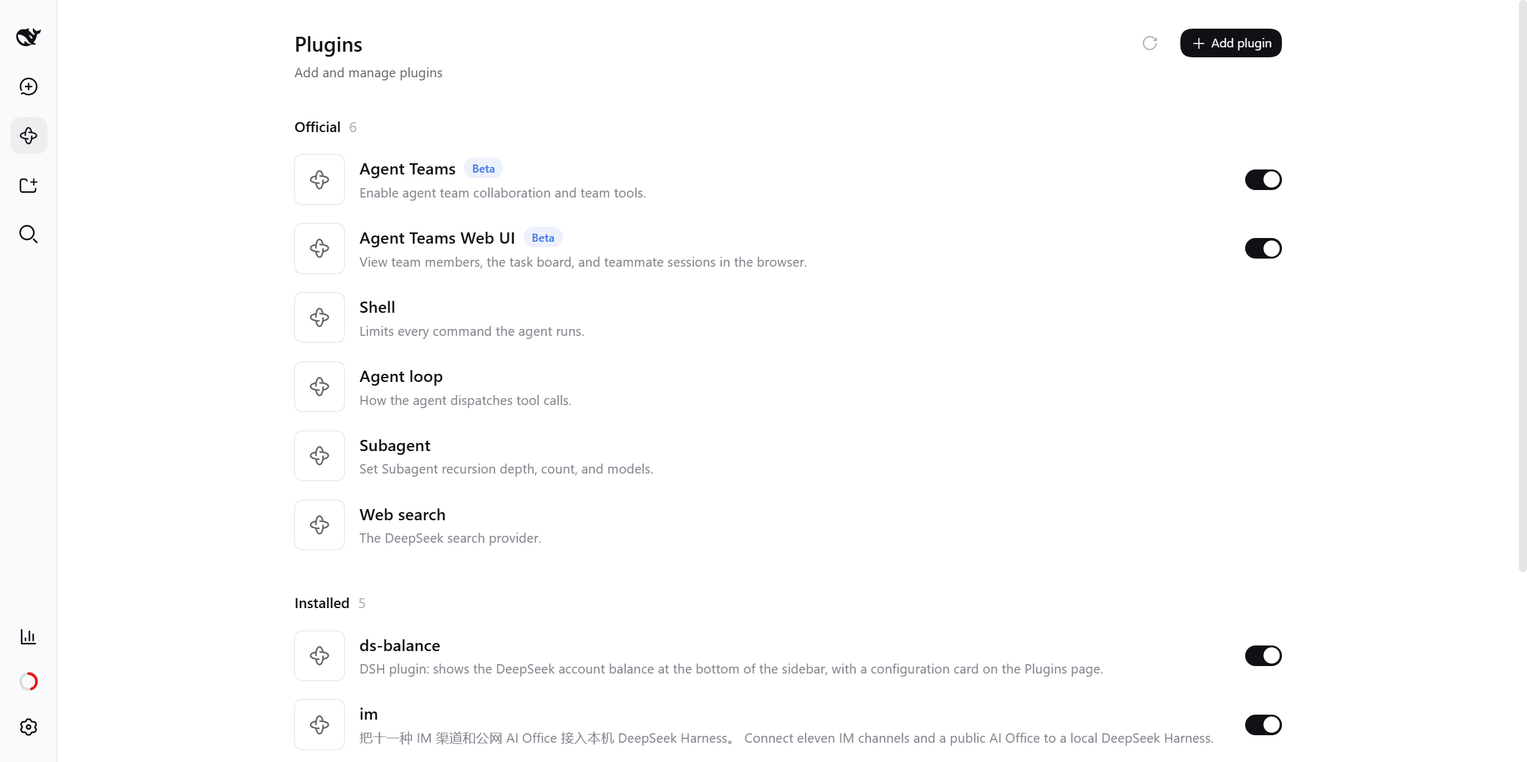
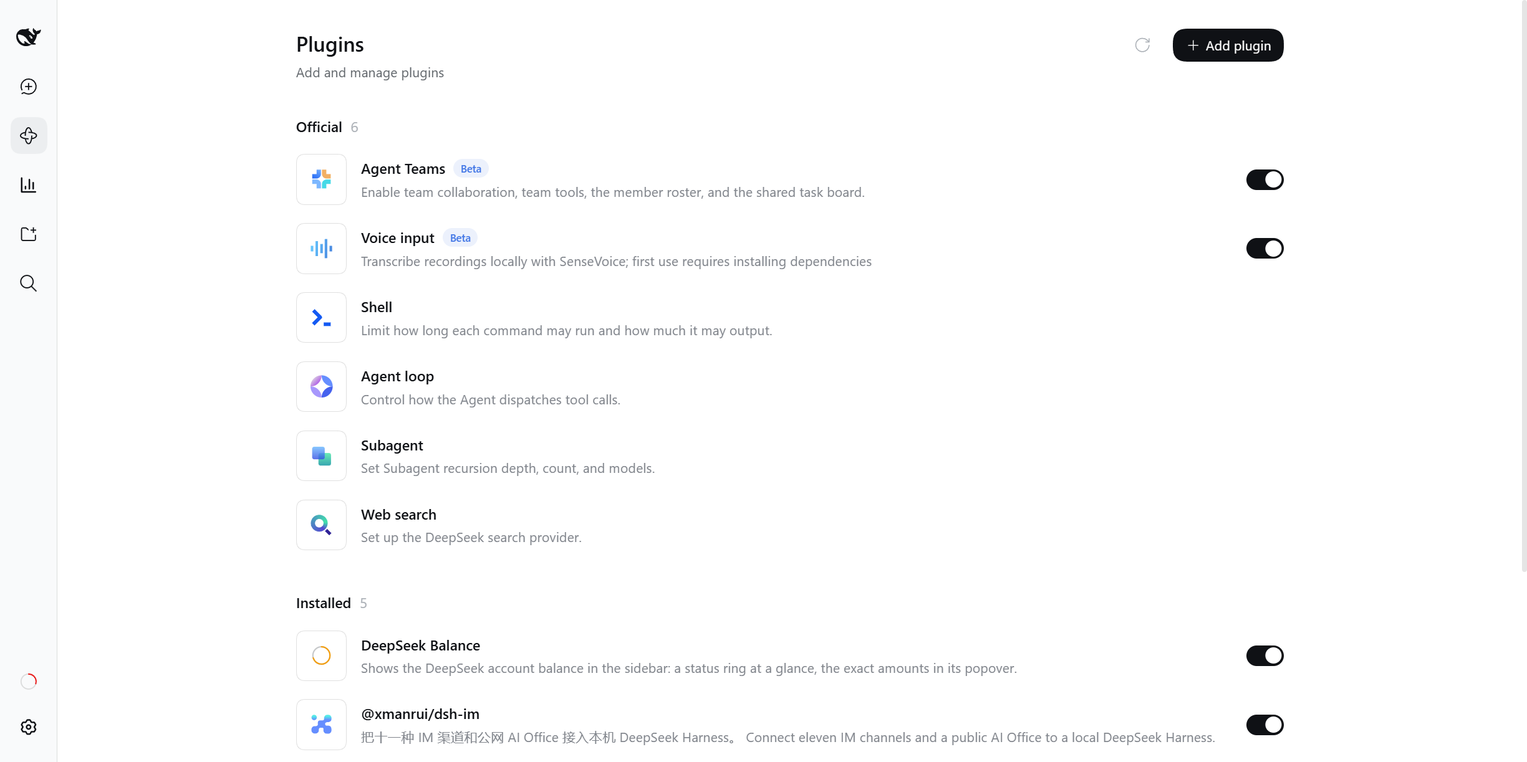
门面图第三轮重拍（六张）+ 发布顺序规则：bump 在发布之前，workflow 不 bump
六张全部从真实界面重拍（展示元数据 + 图标落地之后），每语言一遍、最后切回 English：
- settings-card.png / _en.png 1598x2464：取景改成**含图标 / 标题 / 版本 tag(v2.0.0-alpha.2) / 描述那一块**到保存按钮，
  四组全开、二级「自定义设置」收起、唯一保存按钮，中英各一张；
- settings-cards-position.png / _en.png 2449x1223：Plugins 列表视图 + 侧栏收起态，卡片是显示名 + 橙色环图标；
- sidebar-popover.png / _en.png 515x480：**按侧栏容器与浮层的并集裁**（右边界 312），右侧不带任何聊天区元素。

三条本轮实测的坑，都写进了 assets/AGENTS.md：
1. ★ 侧栏那两张的边界必须取**容器几何**，不许手填坐标 —— 上一版手填 390 宽把聊天区碎片带了进来，
   英文图里还因此出现了中文「发送」（维护者判废）；
2. ★ `setViewportSize` 会把 **dpr 打成 1**，且把尺寸还原也回不来（实测 1.65 → 1.0；新开页面才恢复）——
   「临时加高 viewport 拍长元素」那条老路作废；
3. ★ 长元素直接 `locator.screenshot()` 会被滚动容器骗到（上半空白、下半被裁），
   改成「解除祖先裁剪 → fullPage → 本地按文档坐标裁」，全程不碰 viewport。

发布顺序规则（维护者定）：**先 bump 并提交 → 再拍截图 → 最后发布**，workflow 只发不 bump。
- docs/PUBLISHING.md 新增「bump 是发布之前的独立一步」一节（含为什么：版本 tag 是截图判废项）；
- assets/AGENTS.md 的判废项补「重截前先确认版本已 bump 到即将发布的号」；
- 新红线「发布流程」：release.yml 里不得出现 `npm version <tier>` 一类调用，**带反向控制**
  （检测器只认命令位置，提示文案里的「bump with: …」不误伤；实测往 workflow 插一行就红）。

另按维护者口径写进 assets/AGENTS.md：**两处圆环不是一回事** —— icon.svg 是静态品牌环（橙、七成弧），
侧栏条目那条是实时状态环（颜色由 severity 决定），**红环不算判废**，也不为了一致去改任何一边。

验收（提交前）：typecheck 0 / test 0（353 passed, 30 files）/ check:release 0 / check:declaration 0 /
git diff --check 0 / 链接校验 0 errors, 14 warnings。

diff --git a/test/redlines.test.ts b/test/redlines.test.ts
@@ -97,6 +97,52 @@ describe('插件清单', () => {
 })
 
 /**
+ * 发布流程。
+ *
+ * 顺序是**死**的：先 bump 并提交 → 需要截图就先拍 → 最后发布。
+ * 为什么：界面上的版本 tag 是**截图的判废项**，而它显示的就是 `package.json` 里那个号。
+ * 只要发布流程自己 bump，工作树就永远停在「上一个已发布版本」，截图必然拍出旧号。
+ * 界面出的错比 CI 出的错贵 —— 所以要红在测试里，而不是红在门面图上。
+ */
+describe('发布流程', () => {
+  /**
+   * 在一份 YAML 里找**命令位置**上的改写版本调用。
+   * 只看命令位置（行首、`run:` 之后、`&&` / `;` 之后）—— 提示文案里写「bump with: npm version …」
+   * 是给维护者看的一句话，不是调用，不该被误伤。
+   */
+  const bumpCalls = (text: string): string[] =>
+    text.split('\n').flatMap((line, index) => {
+      const body = line.replace(/^\s*(?:-\s*)?(?:run:\s*)?/, '')
+      return body.split(/&&|;|\|\|/).map((part) => part.trim())
+        .filter((part) => /^(?:npm|pnpm)\s+(?:--?[\w-]+\s+)*version(?:\s|$)/.test(part))
+        .map((part) => `第 ${index + 1} 行：${part.slice(0, 60)}`)
+    })
+
+  it('release.yml 里不得出现改写版本的调用', () => {
+    // bump 是发布**之前**的独立一步（在维护者机器上跑），workflow 只发不 bump。
+    // 判据与顺序的说明在 docs/PUBLISHING.md；反向控制在同一组的下一条。
+    const workflow = readFileSync('.github/workflows/release.yml', 'utf8')
+    const found = bumpCalls(workflow)
+    expect(found, `release.yml 里出现了改写版本的调用：\n${found.join('\n')}`).toEqual([])
+  })
+
+  it('上面那条检测器有牙齿（反向控制）', () => {
+    // 防空转：扫不到东西的守卫等于没有守卫。
+    expect(bumpCalls('      - run: npm version patch --no-git-tag-version'))
+      .toEqual(['第 1 行：npm version patch --no-git-tag-version'])
+    expect(bumpCalls('run: pnpm version minor')).toEqual(['第 1 行：pnpm version minor'])
+    expect(bumpCalls('        npm --no-git-tag-version version prerelease'))
+      .toEqual(['第 1 行：npm --no-git-tag-version version prerelease'])
+    expect(bumpCalls('run: npm ci && npm version patch')).toEqual(['第 1 行：npm version patch'])
+    // 正常的发布步骤、以及提示文案里的那串字，都不该被误伤。
+    expect(bumpCalls('run: npm ci')).toEqual([])
+    expect(bumpCalls('run: npm publish --provenance --tag "$tag"')).toEqual([])
+    expect(bumpCalls('run: npm run build && npm test')).toEqual([])
+    expect(bumpCalls('echo "bump with: npm version <patch|minor|major> --no-git-tag-version"')).toEqual([])
+  })
+})
+
+/**
  * 插件展示元数据（插件页上的标题与描述）。
  *
  * 宿主**直读**包内的 `locale/*.json` 与 `package.json`，我们的代码一个字节都不读它 ——

diff --git a/assets/AGENTS.md b/assets/AGENTS.md
@@ -4,14 +4,14 @@
 
 只讲**在这里要怎么干**；目录里有什么、被谁引用、图长什么样 → [README.md](README.md)。
 
-## 入口是 bundle 详情页（四张设置图待重截）
+## 入口是 bundle 详情页（六张已于第三轮重拍）
 
 配置卡片落在 **bundle 详情页里**：点插件名进详情页，**配置区就在描述下面、直接可改**，
 那一行上**没有**第二个 Configure 步骤。落点往返过一次（bundle 页 → 行子页 → bundle 页），
 理由见 [决策记录](../.agents/notes/2026-09-22-config-entry-back-to-bundle-config.md)。
 
-- 待重截的是 `settings-card*.png` 两张（入口与版本 tag 都变了），
-  **外加** `settings-cards-position*.png` 两张 —— 列表卡片上的标题与描述也换了（见下一节的重截判据）。
+- 六张都在**第三轮**（展示元数据 + 图标之后）重拍过；`settings-card*.png` 两张的取景**含**
+  图标 / 标题 / 版本 tag / 描述那一块（不只是配置表单），所以那三样在图上可核 —— 见「验收」。
 - **进入路径按显示名走**：列表卡片与详情页标题画的是**展示元数据**里的名字（中文「DeepSeek 余额」、
   英文「DeepSeek Balance」），详情页标题下面另有一行代码体写着**完整包名** `dsh-ds-balance`。
 
@@ -38,6 +38,9 @@
 - 插件页上的**标题、描述与图标**：真源是包根的 [locale/](../locale/AGENTS.md) 与 [icon.svg](../icon.svg)
   （都是宿主直读，不经我们的代码）。它们画在**列表卡片与详情页两处**，所以动它们要重截 `settings-card*.png` 与
   `settings-cards-position*.png` **四张**
+- **版本 tag**：图里那个 `v…` 显示的就是 `package.json` 的版本，所以**重截前先确认版本已经 bump 到即将发布的号**。
+  顺序是死的：**先 bump 并提交 → 再拍截图 → 最后发布**，发布流程自己**不** bump
+  （判据与理由见 [发布手册](../docs/PUBLISHING.md)；红线「发布流程」钉住 `release.yml` 里不得出现 `npm version`）。
 - **`settings-cards-position*.png` 那张（Plugins 列表视图）另有判据**：宿主 Plugins 页的列表结构 —— Official / Installed 两组及其分组文案、本插件在已安装里的可见性（卡片写显示名）、左侧栏收起态。
   已装插件列表变了（多装了一个）**不算过期**：那正是这张图要交代的上下文（「与其他插件并排、长在哪」）。
   **卡片的标题与描述也算它的判据**（列表卡片画的就是这两样，与详情页同源）；
@@ -48,6 +51,10 @@
   弧长现在表达比例，余额一变图就变，这是它的正常状态。
   **门面图一律在正常态（币种匹配）下拍**：浮层里没有币种不匹配段、条目上没有感叹号标记；
   若某次确实要在不匹配态下补拍，那一段必须只有一个「改用 X」按钮（出现第二个按钮＝旧版，「去设置」已删）。
+  - **两处圆环不是一回事，别为了「看起来一致」去改任何一边**（维护者 2026-09-22 拍板）：
+    [icon.svg](../icon.svg) 是**静态品牌环** —— 橙、约七成弧，与余额无关；
+    侧栏条目上那条是**实时状态环** —— 颜色由后端 `severity` 决定，余额低于告急线时它就是红的。
+    **红环不算判废**（判据只要求币种匹配、无感叹号标记）；门面图里两处颜色不同也是对的。
 
 不必重截：
 
@@ -96,7 +103,7 @@
    Plugins 列表那张顺手同拍：**留在列表视图**（不必点进详情页）+ 左侧栏收起态 —— Official / Installed 两组列表，本插件在已安装里可见（卡片上写的是显示名，不是包名）；
    英文 `settings-cards-position_en.png` / 中文 `settings-cards-position.png`。**列表与详情是同一页互斥的两个视图**，配置表单本体不在这张里（它归第 3 步的 `settings-card*.png`）。
    左边栏那张同理：`sidebar-popover.png` / `sidebar-popover_en.png`，**同一次会话里一起拍**，
-   两张取景完全一致，否则并排看会发现构图不同（拍它之前把临时加高的 viewport 还原，整屏图用自然视口）。
+   两张取景完全一致，否则并排看会发现构图不同（两张都在**自然视口**下、按容器几何裁，见「已知约束」）。
 7. **交还**：关掉自己那个标签页 → 把当前会话切回维护者原来那个 → 告诉他可以用了。
 
 拍完把这几张图覆盖进本目录，**文件名不许改** —— 根 README 与 README_en 按名引用。
@@ -106,15 +113,16 @@
 - **整屏图不要设置 viewport**：用**自然视口**拍，产出的物理尺寸自然就是 **2449x1223**（CSS 视口 1484x741 × devicePixelRatio 1.65）。
   **不要 `setViewportSize(2449, 1223)`** —— 它会把 dpr 压成 1，界面只剩原生约 60%，正是维护者当场指出的「界面缩小了」。2449x1223 是**物理像素结果**，不是要设的 CSS 视口。
 - **devicePixelRatio 本来就是 1.65**：不要去动它，也不要把它压成 1。靠 CDP 改密度那条路被 TabbitDance 拒（`Command rejected`），1.65 是唯一正常值，2x 不可得。
-- **首选做法（改进）：元素截图 + `captureBeyondViewport`** —— 对目标元素做 `locator.screenshot()`，让运行时在**自然视口**下把完整高度一次取回来。
-  本次实测：配置区高 **1293**、自然视口 **741**，元素截图一次取全、无白边。它**绕开了 `setViewportSize` 把 dpr 压成 1、截图变糊的坑**，所以优于下面那条老路。
-  拍完**必须目检**：下半截不是白的、没有被裁；并用**元素自身的几何**（`boundingBox()` 的 `top + height`）确认底部落在取到的范围内。
-- **退回老路**：只有在元素截图确实取不全时才临时调高 viewport **高度**（宽度不要动），拍完立刻还原（见 [README.md](README.md)）。
-- **（老配方，配合上面那条「退回老路」使用）配置区比详情页的滚动容器高**，容器会把下半截裁掉：直接对配置区做 `locator.screenshot()` 会拍到容器外的页面，
-  出来是一张「上半截是表单、下半截是聊天记录」的废图。实拍顺序必须是：
-  先把配置区到 `body` 之间的祖先逐个解除裁剪（`overflow: visible` + `max-height: none`），
-  再把 viewport **高度**临时调够（**宽度不要动**），重新量一次 `boundingBox()` 确认整体落在视口内，最后才截 —— **截完把高度还原**。
-  解除裁剪只发生在自己那个标签页里，拍完关掉即可。
+- **`settings-card*.png` 的取法（第三轮实测后改写）**：配置区高 **1293**、自然视口 **741**，它在详情页的滚动容器里。
+  直接 `locator.screenshot()` 拍到的是**错位**的一版（上半截空白、下半截被裁）—— 容器裁剪会骗过 `captureBeyondViewport`。
+  可靠的顺序是：**先解除祖先裁剪**（配置区到 `documentElement` 逐个 `overflow: visible; max-height: none; height: auto`）→
+  量出元素在**文档坐标**里的矩形（`getBoundingClientRect()` + `scrollX/scrollY`）→ `page.screenshot({ fullPage: true })` →
+  **在本地按矩形裁**（缩放系数用 `图片高 / 文档高`）。整条路**不碰 viewport**，所以 dpr 不会变。
+  取景**含图标 / 标题 / 版本 tag / 描述那一块**（从 `detailHead` 上方一点到保存按钮下方一点），不只是配置表单。
+  拍完**必须目检**，并核对产出的物理尺寸约 `1584x2134`（960 CSS 宽 × dpr 1.65 的那一档）。
+- **★ 绝对不要 `setViewportSize`**（第三轮实测）：它把 **dpr 打成 1**，而且**把尺寸还原回去也回不来**（实测 1.65 → 1.0）。
+  真踩了也别慌：**新开一个页面**（`context.newPage()` + 重新导航），上下文默认的 1.65 会回来；那张被打成 1 倍的图重拍。
+  所以「临时调高 viewport 拍长元素」那条老路**不再可行** —— 用上面那条 fullPage + 本地裁。
 - **切语言会让当前标签页重载**，切完要重新走一遍 **Plugins → Installed → 本插件**（标题跟着语言变，见第 3 步），并**重新点开四个组头**（默认收起）。
 - 四组**默认全部收起**（[BalanceSettingsCard.tsx](../src/client/settings/BalanceSettingsCard.tsx) 的 `DEFAULT_GROUP_OPEN` 全 `false`，本次 UI 改动的结果）：
   进页面只有四个组名，**要拍就得逐个点开组头**；卡片级折叠头已经取消，别去找「展开卡片」那一步。
@@ -125,19 +133,30 @@
 - **截图落盘一律给绝对路径**：tabbit 的 nodejs 运行器里 `process.env.TEMP` 是 `undefined`，相对路径会写进浏览器安装目录，事后很难找回来。
 - **切完语言要重新走一遍 Plugins → Installed → 本插件**（标题跟着语言变，见第 3 步）：页面重载会退回插件列表。
   现在只剩**分组头** `div[role="button"][aria-expanded]`（**默认 `false`，要拍就得点开**）；卡片级折叠头已经取消。
-- **截图前确认整块配置区落在视口内**：`boundingBox()` 的 `top + height` 必须小于窗口高度，否则下半截是白的（元素框量得到、画不出来）。不够高就迭代加高 viewport，**拍完还原**。
+- **配置区不再需要「落在视口内」这个前提**（第三轮改写）：走的是「解除祖先裁剪 + fullPage + 本地裁」，
+  元素比视口高多少都拍得全。**不要**再为了塞进视口去加高 viewport —— 那会把 dpr 打成 1（见上）。
 - **`page.screenshot()` 会被浏览器运行时接管**：传了 `path` 也不写你指定的位置，而是落到它的 artifacts 目录，
-  并在返回值里给你真实路径。**`locator.screenshot({ path })` 是原生 Playwright，照写不误** ——
-  所以设置卡片那张直接落盘，左边栏那张（要裁一块区域，只能用 `page.screenshot`）得从 artifacts 里拷回来。
-- **拍左边栏前先把临时加高的 viewport 还原**（整屏图一律走自然视口）：给配置区加高的那个高度会让侧栏的取景失真，
-  那时量出来的框是错的。两张图用两套高度，中间记得切回去。
+  并在返回值里给你真实路径 —— 所以**六张都从 artifacts 目录拷回本仓**（第三轮实测：连 `fullPage` 那张也是）。
+  `locator.screenshot({ path })` 是原生 Playwright、照写不误，但本轮它拍出来的内容是错的（见上），别再用它拍长元素。
+- **全流程都不动 viewport**（第三轮改写）：侧栏那两张、列表那张都在**自然视口**下拍，
+  所以不存在「先加高再还原」这一步；谁要是加了高，侧栏的取景与 dpr 都会跟着失真。
 - 左边栏那两张**不收侧栏**（全仓唯一例外，见第 4 步）：取景顶端必须压在**浮层 / 底部条目那一叠的上沿**，把工作区名与会话标题整段剔出画面。
   **隐私优先于输入框** —— 宁可不要输入框，也不能露出会话标题；新会话只保证「没有工作文字」，不保证没有侧栏标题。
+- **★ 左边界与右边界一律取容器几何，不许手填坐标**（第三轮就是这么翻的车：手填的 390 宽把聊天区的碎片
+  —— 一张被裁的卡片、`发送` / `+` 两个按钮 —— 带了进来，英文图里还因此出现了中文 `发送`）：
+  - 左 = `[data-slot="sidebar"]` 往上第一个宽 200–560 的祖先的 `x`（实测 0）；
+  - 右 = **那个祖先的右边界 与 浮层 `[role=dialog]` 的右边界，取大的那个**。
+    **浮层比侧栏宽**（实测侧栏 280、浮层 300 且起点 x=12 ⇒ 右边界 312），按侧栏边缘裁会把浮层的右侧切掉。
+    取并集多出来的那 32px **全部被浮层自己盖住**，不是聊天区碎片；实测聊天区内容最近的左边界在 x≈349。
+  - 上 = 浮层顶边（实测 450），下 = 视口底（实测 741）⇒ 产出 **515x480**（312 CSS × 1.65）。
+  两条边界都要等几何稳定后再量；量完**目检**一遍：右边一列必须是浮层本体或纯背景。
 
 ## 验收
 
-- 配置区完整：**插件标题、描述与图标**（插件页按包根 `locale/` 与 `icon.svg` 画）、**四个组名 + 拍摄时点开的四组字段行**、状态徽标、说明行、**唯一的保存按钮**，一样不缺
+- 配置区完整：**插件标题、描述与图标**（插件页按包根 `locale/` 与 `icon.svg` 画）、**版本 tag**（= `package.json` 里那个号）、**四个组名 + 拍摄时点开的四组字段行**、状态徽标、说明行、**唯一的保存按钮**，一样不缺
 - 出现折叠头、「放弃」按钮或卡片外框，说明拍的是旧界面
+- **两处圆环各按各的判据**：卡片/详情页那个是 `icon.svg`（橙、七成弧、与余额无关）；侧栏条目那条是实时状态环，**红 = `critical`，不是判废**
+- **侧栏那两张的右边界之外不许有任何聊天区元素**：图里出现被裁的卡片、`发送` / `+` 这类控件就是判废（第三轮的实际判废理由）
 - **整屏 / 宽幅图里左侧栏是收起态**（`sidebar-popover*.png` 两张例外，那里改为裁掉标题段）：看不到会话标题、工作区名或对话内容
 - **侧栏是动画中间帧 / 宽度不固定 → 判废重拍**；浮层、折叠区也要等几何稳定，别拿弹出中途的帧凑数（判据见第 4 步的轮询）
 - 左边栏那两张：**正常态（币种匹配）下拍** —— 浮层里没有币种不匹配段、条目上没有感叹号标记（若确在不匹配态补拍，那一段必须只有一个「改用 X」按钮）、悬浮气泡不与该浮层同框、浮层标题行右端有 Plugins 图标（**宿主缺 `layout` 服务时它本就不渲染**，缺席是正常的）

diff --git a/assets/README.md b/assets/README.md
@@ -6,9 +6,9 @@
 
 ## 文件与引用面
 
-- `sidebar-popover.png`：左边栏底部的条目与展开的余额浮层，中文实拍，被根 [README.md](../README.md) 引用。
+- `sidebar-popover.png`：左边栏底部的条目与展开的余额浮层，中文实拍（515×480，取景左右边界按侧栏容器与浮层的并集裁，右侧不含任何聊天区元素），被根 [README.md](../README.md) 引用。
 - `sidebar-popover_en.png`：同一画面的英文版，被 [README_en.md](../README_en.md) 引用。
-- `settings-card.png`：配置表单的中文实拍（插件详情页里从插件标题下方到保存按钮），被根 [README.md](../README.md) 引用。
+- `settings-card.png`：插件详情页的中文实拍（**从图标 / 标题 / 版本 tag / 描述那一块到保存按钮**，四组全展开），被根 [README.md](../README.md) 引用。
 - `settings-card_en.png`：同一画面的英文版，被 [README_en.md](../README_en.md) 引用。
 - `settings-cards-position.png`：**Plugins 页列表视图**的中文实拍（左侧栏收起态 + Official / Installed 两组列表，本插件在已安装里可见，卡片上写的是显示名「DeepSeek 余额」），被根 [README.md](../README.md) 引用。
 - `settings-cards-position_en.png`：同一画面的英文版，被 [README_en.md](../README_en.md) 引用。
@@ -16,17 +16,11 @@
 六张都是**从真实界面实拍**的：界面语言当前是 English，所以先拍全部 `_en` 图，再切成中文拍中文版，最后切回 English。
 重截流程、判据与验收标准见 [AGENTS.md](AGENTS.md)。
 
-> **六张全部待重截**：三处改动叠在一起，每一张的画面都与现在的界面对不上 ——
->
-> - 四张设置图（`settings-card*.png` + `settings-cards-position*.png`）：配置入口回到 bundle 详情页
->   （点插件名进去就是配置区，行上没有 Configure 步骤）+ 版本 tag，**外加**插件页上的**标题、描述与图标**
->   换成了包根的展示元数据（标题从包名变成「DeepSeek 余额」/「DeepSeek Balance」，描述第一次出现，
->   图标从宿主默认图变成那个橙色弧环）—— 列表卡片与详情页都画这三样，见 [icon.svg](../icon.svg)；
->   `settings-cards-position*.png` 上一轮判它「不用动」，**本轮起不再成立**；
-> - `sidebar-popover*.png` 两张：浮层材质从「半透明无模糊」变成磨砂，圆环换了几何。
->
-> 图先留着，根 README 的引用也先不动 —— 重拍之后按同名覆盖即可；
-> 路径与判据见 [AGENTS.md](AGENTS.md)，**不需要重启宿主**（改动全在浏览器半边）。
+> **第三轮已全部重拍**（展示元数据 + 图标落地之后）：六张都是从真实界面实拍、同名覆盖，
+> 拍法与判据的最新版见 [AGENTS.md](AGENTS.md) —— 其中两条是这一轮踩出来的：
+> 侧栏那两张的左右边界按**容器几何**取（手填坐标会把聊天区碎片带进图里），
+> 长元素一律走「解除裁剪 + fullPage + 本地裁」，**绝不碰 viewport**（那会把 dpr 打成 1）。
+> 侧栏条目上的环是**实时状态环**，余额低于告急线时就是红的 —— 与 [icon.svg](../icon.svg) 那个橙色品牌环不是一回事。
 
 ## 风格基准
 

diff --git a/AGENTS.md b/AGENTS.md
@@ -79,17 +79,9 @@
 - [x] 本轮 UI 改动的收尾：文档同步、报告回填、提交
 - [x] 卡片的折叠头已按原生形态取消：不再有要持久化的折叠状态
 - [ ] 阶段 7 交付清单：截图 / 录屏需维护者配合
-- [ ] **两张设置卡片图待重拍**：两个原因叠在一起 —— ① 配置入口已回到 bundle 详情页（点插件名进去就是配置区，
-  行上没有 Configure 步骤），图里的入口/版本是旧的那一版；② 插件页的**标题、描述与图标**现在来自包根的
-  展示面（标题从包名换成「DeepSeek 余额」，描述第一次出现，图标从宿主默认图变成那个橙色弧环），
-  而这张图正拍着这三样。受影响的是 `settings-card*.png` 两张。
-  判据与拍摄步骤见 [assets/AGENTS.md](assets/AGENTS.md)；**不需要重启宿主**（改动全在浏览器半边，
-  `npm run build` + HMR 即换），只需要维护者的浏览器与一次语言切换。
-- [ ] **两张 Plugins 列表图待重拍**：列表卡片的标题、描述与图标同样来自包根的展示面 —— 上一轮判它「不用动」
-  （那时只改了入口，列表结构没变），**本轮起不再成立**：`settings-cards-position*.png` 两张拍的就是那张卡片。
-  判据同见 [assets/AGENTS.md](assets/AGENTS.md)。
-- [ ] **两张侧栏图待重拍**：浮层材质从「半透明无模糊」变成磨砂（`.panel::before` + `backdrop-filter`），
-  圆环几何也换了（同网格细环）。受影响的是 `sidebar-popover*.png` 两张，判据见 [assets/README.md](assets/README.md)。
+- [x] **六张门面图已于第三轮全部重拍**（展示元数据 + 图标落地之后）：`settings-card*.png`、
+  `settings-cards-position*.png`、`sidebar-popover*.png` 各两张，第三轮实测的拍法与判据写进了
+  [assets/AGENTS.md](assets/AGENTS.md)（侧栏按容器几何裁、长元素不碰 viewport）。
 - [x] 发布前：加回 `dsh.bundle`、去掉 `private` → `npm run check:release` 0 失败
 - [x] 六项发布面全部落地（assets / CONTRIBUTING / PUBLISHING / contract 配置 / 3 个 workflow / 3 个 script）→ [落地记录](.agents/notes/2026-09-17-release-surface-landing.md)
 - [x] 两张设置卡片截图已从真实界面实拍（中英各一张）→ 重截判据见 [assets/AGENTS.md](assets/AGENTS.md)

diff --git a/docs/PUBLISHING.md b/docs/PUBLISHING.md
@@ -20,6 +20,21 @@
 
 唯一入口是 [release.yml](../.github/workflows/release.yml)，手动触发。
 
+### bump 是发布**之前**的独立一步，workflow 不 bump
+
+顺序是死的：**先 bump 并提交 → 需要截图就先拍 → 最后发布**。
+
+为什么不能把 bump 塞进 workflow：界面上的**版本 tag 是截图的判废项**，而它显示的就是 `package.json` 里那个号。
+只要发布流程自己改版本，工作树就永远停在「上一个已发布版本」—— 截图必然拍出旧号
+（2026-09-22 zhihu 那一轮就是这么翻的车）。所以：
+
+- bump 在维护者机器上跑（`npm version <tier> --no-git-tag-version`，见上一节），**提交之后**才谈截图与发布；
+- `release.yml` **只发不 bump**：它读现成的版本号、按结果版本推导 dist-tag（带预发布段 → 同名 dist-tag，`latest` 不动）；
+- 这条不变量**已落成红线**：`release.yml` 里不得出现 `npm version <tier>` 这类调用（带反向控制），
+  见 [test/redlines.test.ts](../test/redlines.test.ts) 的「发布流程」一组。
+
+推论：**发一个版本 = 一次 bump 提交 + 一次 workflow 运行**，两件事分开看；workflow 重跑不会改任何版本号。
+
 它按固定顺序跑，前面任何一步红了都走不到发布：
 
 1. 校验 `package.json` 与 `package-lock.json` 的版本号一致。
